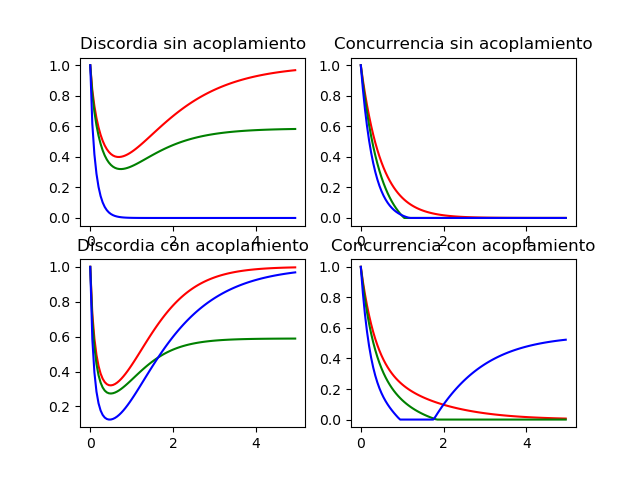
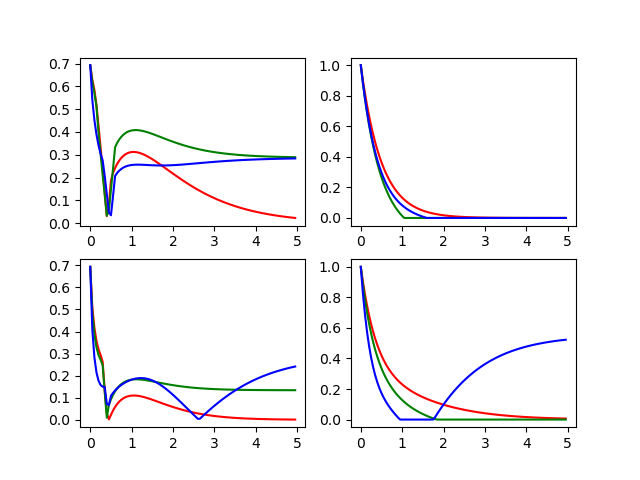
Cambio generado con script

diff --git a/master.py b/master.py
@@ -13,7 +13,7 @@ sigmen2 = tensor(identity(2),sigmam()) #Sigma menos en sistema 2
 sigmas2 = tensor(identity(2),sigmap()) #Sigma mas en sistema 2
 S0S = [sigmen1,sigmen2]
 S1S = [np.sqrt(1.1)*sigmen1,np.sqrt(1.1)*sigmen2,np.sqrt(0.1)*sigmas1,np.sqrt(0.1)*sigmas2]
-S2S = [np.sqrt(1.1)*sigmen1+np.sqrt(1.1)*sigmas1,np.sqrt(1.1)*sigmen2+np.sqrt(0.1)*sigmas2]
+S2S = [np.sqrt(1.1)*sigmen1+np.sqrt(0.1)*sigmas1,np.sqrt(1.1)*sigmen2+np.sqrt(0.1)*sigmas2]
 S0C = [sigmen1+sigmen2]
 S1C = [np.sqrt(1.1)*sigmen1+np.sqrt(1.1)*sigmen2,np.sqrt(0.1)*sigmas1+np.sqrt(0.1)*sigmas2]
 S2C = [np.sqrt(1.1)*sigmen1+np.sqrt(0.1)*sigmas1+np.sqrt(1.1)*sigmen2+np.sqrt(0.1)*sigmas2]
@@ -21,17 +21,26 @@ S2C = [np.sqrt(1.1)*sigmen1+np.sqrt(0.1)*sigmas1+np.sqrt(1.1)*sigmen2+np.sqrt(0.
 def log_2(x):
     if np.real(x) <= 0:
        return 0
-    return np.log2(x)
+    else:
+       return np.log2(x)
 #Definir entropia condicional para minimizar
 def entropy_cond(a,b,t1,t2):
-    e = a*(-((1-t1)/2)*log_2((1-t1)/2)-((1+t1)/2)*log_2((1+t1)/2))+b*(-((1-t2)/2)*log_2((1-t2)/2)-((1+t2)/2)*log_2((1+t2)/2))
+    e= 0
+    if (1-t1)/2 > 0:
+       e = e -a*( (1-t1)/2)*log_2( (1-t1)/2 )
+    if (1+t1)/2 > 0:
+       e = e -a*( (1+t1)/2)*log_2( (1+t1)/2 )
+    if (1-t2)/2 > 0:
+       e = e -b*( (1-t2)/2)*log_2( (1-t2)/2 )
+    if (1+t2)/2 > 0:
+       e = e -b*( (1+t2)/2)*log_2( (1+t2)/2 )
     return e
 #Definir función entropía binaria con logaritmo seguro
 def h_bin(x):
     h=-x*log_2(x)-(1-x)*log_2(1-x)
     return h
 #Definir funcion que calcula ecuaciones maestras y evaluar si funciona fuera para los estados lógicos
-def me3(IN,RES):
+def me(IN,RES):
     sol=mesolve(tensor(identity(2),identity(2)), IN, times, RES)
     out=[[0 for i in range(100)],[0 for i in range(100)]]
     conc=[0 for i in range(100)]
@@ -48,154 +57,118 @@ def me3(IN,RES):
         r12i= np.imag(a.matrix_element(tensor(basis(2,0),basis(2,1)).dag(),tensor(basis(2,1),basis(2,0))))
         r03a= np.absolute(a.matrix_element(tensor(basis(2,0),basis(2,0)).dag(),tensor(basis(2,1),basis(2,1))))
         r12a= np.absolute(a.matrix_element(tensor(basis(2,0),basis(2,1)).dag(),tensor(basis(2,1),basis(2,0))))
-        if r11+r33 ==0:
+        if r11+r33 == 0:
            ent_comp[0]=1
            ent_comp[1]=1
-        elif r00+r22 ==0:
+        elif r00+r22 == 0:
            ent_comp[0]=1
            ent_comp[1]=1
         else:
-           ent_comp[0]=entropy_cond( r11+r33, r00+r22, (r11-r33)/(r00+r22) ,(r00-r22)/(r11+r33) )
-           ent_comp[1]=entropy_cond( r00+r22, r11+r33, (r00-r22)/(r11+r33) ,(r11-r33)/(r00+r22) )
-        ent_comp[2]=entropy_cond( 0.5, 0.5,  np.sqrt(((r00-r22)+(r11-r33))**2+4*(r03r+r12r)**2), np.sqrt(((r00-r22)+(r11-r33))**2+4*np.absolute((r03a)**2+(r12a)**2+2*r03r*r12r)))
-        ent_comp[3]=entropy_cond( 0.5, 0.5,  np.sqrt(((r00-r22)+(r11-r33))**2+4*(r03r-r12r)**2), np.sqrt(((r00-r22)+(r11-r33))**2+4*np.absolute((r03a)**2+(r12a)**2+2*r03r*r12r)))              
-        if min(ent_comp)<=0:
-           e=0
-        else:
-           e= np.absolute(min(ent_comp))
+           ent_comp[0]=entropy_cond( r11+r33, r00+r22, np.absolute((r11-r33)/(r00+r22)),np.absolute((r00-r22)/(r11+r33)) )
+           ent_comp[1]=entropy_cond( r00+r22, r11+r33, np.absolute((r00-r22)/(r11+r33)),np.absolute((r11-r33)/(r00+r22)) )
+        
+        ent_comp[2]=entropy_cond( 0.5, 0.5,  np.sqrt(((r00-r22)+(r11-r33))**2+4*((r03a)**2+(r12a)**2+2*r03r*r12r)), np.sqrt(((r00-r22)+(r11-r33))**2+4*((r03a)**2+(r12a)**2+2*r03r*r12r)))
+        ent_comp[3]=entropy_cond( 0.5, 0.5,  np.sqrt(((r00-r22)+(r11-r33))**2+4*((r03a)**2+(r12a)**2+2*r03r*r12r)-4*(r03r*r12r-r03i*r12i)), np.sqrt(((r00-r22)+(r11-r33))**2+4*((r03a)**2+(r12a)**2+2*r03r*r12r)-4*(r03r*r12r-r03i*r12i)))
+        e= np.real(np.amin(ent_comp))
+        if e <= 0:
+           e= 0
         return e
     for i in range (0,100):
         mat=Qobj(sol.states[i])
         conc[i]=concurrence(mat)
-        disc[i]=entropy_mutual(mat,0,1)-entropy_vn(mat.ptrace(1))+entropy_opt(mat)
+        disc[i]=np.absolute(entropy_opt(mat)-entropy_conditional(mat,0))
     out=[conc,disc]
     return out
-
-def me2(IN,RES):
-    sol=mesolve(tensor(identity(2),identity(2)), IN, times, RES)
-    out=[[0 for i in range(100)],[0 for i in range(100)],[0 for i in range(100)],[0 for i in range(100)]]
-    conc=[0 for i in range(100)]
-    disc=[0 for i in range(100)]
-    clas=[0 for i in range(100)]
-    entf=[0 for i in range(100)]
-    for i in range (0,100):
-        mat=Qobj(sol.states[i])
-        c1=mat.eigenenergies()[2]+mat.eigenenergies()[3]-mat.eigenenergies()[0]-mat.eigenenergies()[1]
-        c2=mat.eigenenergies()[1]+mat.eigenenergies()[3]-mat.eigenenergies()[0]-mat.eigenenergies()[2]
-        c3=mat.eigenenergies()[1]+mat.eigenenergies()[2]-mat.eigenenergies()[0]-mat.eigenenergies()[3]
-        consar=np.array([c1,c2,c3])
-        c=np.amax(consar)       
-        conc[i]=concurrence(mat)
-        disc[i]=-0.5*((1+c)*log_2(1+c)+(1-c)*log_2(1-c))
-        for j in range (0,4):
-            disc[i]=disc[i]+mat.eigenenergies()[j]*log_2(4*mat.eigenenergies()[j])
-    out=[conc,disc]
-    return out    
 
 tiempo = [(1/20)*i for i in range(100)]#Intervalo de tiempo para los gráficos
 
  
 #Graficar
 fig, axs = subplots(2,2)
-axs[0,0].plot(tiempo,me2(I1,S0S)[1], 'r')
-axs[0,0].plot(tiempo,me2(I1,S1S)[1], 'g')
-axs[0,0].plot(tiempo,me2(I1,S2S)[1], 'b')
-axs[0,0].set_title('Discordia sin acoplamiento')
-axs[0,1].plot(tiempo,me2(I1,S0S)[0], 'r')
-axs[0,1].plot(tiempo,me2(I1,S1S)[0], 'g')
-axs[0,1].plot(tiempo,me2(I1,S2S)[0], 'b')
-axs[0,1].set_title('Concurrencia sin acoplamiento')
-axs[1,0].plot(tiempo,me2(I1,S0C)[1], 'r')
-axs[1,0].plot(tiempo,me2(I1,S1C)[1], 'g')
-axs[1,0].plot(tiempo,me2(I1,S2C)[1], 'b')
-axs[1,0].set_title('Discordia con acoplamiento')
-axs[1,1].plot(tiempo,me2(I1,S0C)[0], 'r')
-axs[1,1].plot(tiempo,me2(I1,S1C)[0], 'g')
-axs[1,1].plot(tiempo,me2(I1,S2C)[0], 'b')
-axs[1,1].set_title('Concurrencia con acoplamiento')
+axs[0,0].plot(tiempo,me(I1,S0S)[1], 'r')
+axs[0,0].plot(tiempo,me(I1,S1S)[1], 'g')
+axs[0,0].plot(tiempo,me(I1,S2S)[1], 'b')
+axs[0,1].plot(tiempo,me(I1,S0S)[0], 'r')
+axs[0,1].plot(tiempo,me(I1,S1S)[0], 'g')
+axs[0,1].plot(tiempo,me(I1,S2S)[0], 'b')
+axs[1,0].plot(tiempo,me(I1,S0C)[1], 'r')
+axs[1,0].plot(tiempo,me(I1,S1C)[1], 'g')
+axs[1,0].plot(tiempo,me(I1,S2C)[1], 'b')
+axs[1,1].plot(tiempo,me(I1,S0C)[0], 'r')
+axs[1,1].plot(tiempo,me(I1,S1C)[0], 'g')
+axs[1,1].plot(tiempo,me(I1,S2C)[0], 'b')
+rcParams.update({'font.size': 6})
 savefig('bell1.png')
 
 #Graficar
 fig, axs = subplots(2,2)
-axs[0,0].plot(tiempo,me2(I2,S0S)[1], 'r')
-axs[0,0].plot(tiempo,me2(I2,S1S)[1], 'g')
-axs[0,0].plot(tiempo,me2(I2,S2S)[1], 'b')
-axs[0,0].set_title('Discordia sin acoplamiento')
-axs[0,1].plot(tiempo,me2(I2,S0S)[0], 'r')
-axs[0,1].plot(tiempo,me2(I2,S1S)[0], 'g')
-axs[0,1].plot(tiempo,me2(I2,S2S)[0], 'b')
-axs[0,1].set_title('Concurrencia sin acoplamiento')
-axs[1,0].plot(tiempo,me2(I2,S0C)[1], 'r')
-axs[1,0].plot(tiempo,me2(I2,S1C)[1], 'g')
-axs[1,0].plot(tiempo,me2(I2,S2C)[1], 'b')
-axs[1,0].set_title('Discordia con acoplamiento')
-axs[1,1].plot(tiempo,me2(I2,S0C)[0], 'r')
-axs[1,1].plot(tiempo,me2(I2,S1C)[0], 'g')
-axs[1,1].plot(tiempo,me2(I2,S2C)[0], 'b')
-axs[1,1].set_title('Concurrencia con acoplamiento')
+axs[0,0].plot(tiempo,me(I2,S0S)[1], 'r')
+axs[0,0].plot(tiempo,me(I2,S1S)[1], 'g')
+axs[0,0].plot(tiempo,me(I2,S2S)[1], 'b')
+axs[0,1].plot(tiempo,me(I2,S0S)[0], 'r')
+axs[0,1].plot(tiempo,me(I2,S1S)[0], 'g')
+axs[0,1].plot(tiempo,me(I2,S2S)[0], 'b')
+axs[1,0].plot(tiempo,me(I2,S0C)[1], 'r')
+axs[1,0].plot(tiempo,me(I2,S1C)[1], 'g')
+axs[1,0].plot(tiempo,me(I2,S2C)[1], 'b')
+axs[1,1].plot(tiempo,me(I2,S0C)[0], 'r')
+axs[1,1].plot(tiempo,me(I2,S1C)[0], 'g')
+axs[1,1].plot(tiempo,me(I2,S2C)[0], 'b')
+rcParams.update({'font.size': 6})
 savefig('bell3.png')
 
 
 #Graficar
 fig, axs = subplots(2,2)
-axs[0,0].plot(tiempo,me3(I3,S0S)[1], 'r')
-axs[0,0].plot(tiempo,me3(I3,S1S)[1], 'g')
-axs[0,0].plot(tiempo,me3(I3,S2S)[1], 'b')
-axs[0,0].set_title('Discordia sin acoplamiento')
-axs[0,1].plot(tiempo,me3(I3,S0S)[0], 'r')
-axs[0,1].plot(tiempo,me3(I3,S1S)[0], 'g')
-axs[0,1].plot(tiempo,me3(I3,S2S)[0], 'b')
-axs[0,1].set_title('Concurrencia sin acoplamiento')
-axs[1,0].plot(tiempo,me3(I3,S0C)[1], 'r')
-axs[1,0].plot(tiempo,me3(I3,S1C)[1], 'g')
-axs[1,0].plot(tiempo,me3(I3,S2C)[1], 'b')
-axs[1,0].set_title('Discordia con acoplamiento')
-axs[1,1].plot(tiempo,me3(I3,S0C)[0], 'r')
-axs[1,1].plot(tiempo,me3(I3,S1C)[0], 'g')
-axs[1,1].plot(tiempo,me3(I3,S2C)[0], 'b')
-axs[1,1].set_title('Concurrencia con acoplamiento')
+axs[0,0].plot(tiempo,me(I3,S0S)[1], 'r')
+axs[0,0].plot(tiempo,me(I3,S1S)[1], 'g')
+axs[0,0].plot(tiempo,me(I3,S2S)[1], 'b')
+axs[0,1].plot(tiempo,me(I3,S0S)[0], 'r')
+axs[0,1].plot(tiempo,me(I3,S1S)[0], 'g')
+axs[0,1].plot(tiempo,me(I3,S2S)[0], 'b')
+axs[1,0].plot(tiempo,me(I3,S0C)[1], 'r')
+axs[1,0].plot(tiempo,me(I3,S1C)[1], 'g')
+axs[1,0].plot(tiempo,me(I3,S2C)[1], 'b')
+axs[1,1].plot(tiempo,me(I3,S0C)[0], 'r')
+axs[1,1].plot(tiempo,me(I3,S1C)[0], 'g')
+axs[1,1].plot(tiempo,me(I3,S2C)[0], 'b')
+rcParams.update({'font.size': 6})
 savefig('logi01.png')
 
 
 #Graficar
 fig, axs = subplots(2,2)
-axs[0,0].plot(tiempo,me3(I4,S0S)[1], 'r')
-axs[0,0].plot(tiempo,me3(I4,S1S)[1], 'g')
-axs[0,0].plot(tiempo,me3(I4,S2S)[1], 'b')
-axs[0,0].set_title('Discordia sin acoplamiento')
-axs[0,1].plot(tiempo,me3(I4,S0S)[0], 'r')
-axs[0,1].plot(tiempo,me3(I4,S1S)[0], 'g')
-axs[0,1].plot(tiempo,me3(I4,S2S)[0], 'b')
-axs[0,1].set_title('Concurrencia sin acoplamiento')
-axs[1,0].plot(tiempo,me3(I4,S0C)[1], 'r')
-axs[1,0].plot(tiempo,me3(I4,S1C)[1], 'g')
-axs[1,0].plot(tiempo,me3(I4,S2C)[1], 'b')
-axs[1,0].set_title('Discordia con acoplamiento')
-axs[1,1].plot(tiempo,me3(I4,S0C)[0], 'r')
-axs[1,1].plot(tiempo,me3(I4,S1C)[0], 'g')
-axs[1,1].plot(tiempo,me3(I4,S2C)[0], 'b')
-axs[1,1].set_title('Concurrencia con acoplamiento')
+axs[0,0].plot(tiempo,me(I4,S0S)[1], 'r')
+axs[0,0].plot(tiempo,me(I4,S1S)[1], 'g')
+axs[0,0].plot(tiempo,me(I4,S2S)[1], 'b')
+axs[0,1].plot(tiempo,me(I4,S0S)[0], 'r')
+axs[0,1].plot(tiempo,me(I4,S1S)[0], 'g')
+axs[0,1].plot(tiempo,me(I4,S2S)[0], 'b')
+axs[1,0].plot(tiempo,me(I4,S0C)[1], 'r')
+axs[1,0].plot(tiempo,me(I4,S1C)[1], 'g')
+axs[1,0].plot(tiempo,me(I4,S2C)[1], 'b')
+axs[1,1].plot(tiempo,me(I4,S0C)[0], 'r')
+axs[1,1].plot(tiempo,me(I4,S1C)[0], 'g')
+axs[1,1].plot(tiempo,me(I4,S2C)[0], 'b')
+rcParams.update({'font.size': 6})
 savefig('logi11.png')
 
 
 #Graficar
 fig, axs = subplots(2,2)
-axs[0,0].plot(tiempo,me3(I5,S0S)[1], 'r')
-axs[0,0].plot(tiempo,me3(I5,S1S)[1], 'g')
-axs[0,0].plot(tiempo,me3(I5,S2S)[1], 'b')
-axs[0,0].set_title('Discordia sin acoplamiento')
-axs[0,1].plot(tiempo,me3(I5,S0S)[0], 'r')
-axs[0,1].plot(tiempo,me3(I5,S1S)[0], 'g')
-axs[0,1].plot(tiempo,me3(I5,S2S)[0], 'b')
-axs[0,1].set_title('Concurrencia sin acoplamiento')
-axs[1,0].plot(tiempo,me3(I5,S0C)[1], 'r')
-axs[1,0].plot(tiempo,me3(I5,S1C)[1], 'g')
-axs[1,0].plot(tiempo,me3(I5,S2C)[1], 'b')
-axs[1,0].set_title('Discordia con acoplamiento')
-axs[1,1].plot(tiempo,me3(I5,S0C)[0], 'r')
-axs[1,1].plot(tiempo,me3(I5,S1C)[0], 'g')
-axs[1,1].plot(tiempo,me3(I5,S2C)[0], 'b')
-axs[1,1].set_title('Concurrencia con acoplamiento')
+axs[0,0].plot(tiempo,me(I5,S0S)[1], 'r')
+axs[0,0].plot(tiempo,me(I5,S1S)[1], 'g')
+axs[0,0].plot(tiempo,me(I5,S2S)[1], 'b')
+axs[0,1].plot(tiempo,me(I5,S0S)[0], 'r')
+axs[0,1].plot(tiempo,me(I5,S1S)[0], 'g')
+axs[0,1].plot(tiempo,me(I5,S2S)[0], 'b')
+axs[1,0].plot(tiempo,me(I5,S0C)[1], 'r')
+axs[1,0].plot(tiempo,me(I5,S1C)[1], 'g')
+axs[1,0].plot(tiempo,me(I5,S2C)[1], 'b')
+axs[1,1].plot(tiempo,me(I5,S0C)[0], 'r')
+axs[1,1].plot(tiempo,me(I5,S1C)[0], 'g')
+axs[1,1].plot(tiempo,me(I5,S2C)[0], 'b')
+rcParams.update({'font.size': 6})
 savefig('logi00.png')
 
 
